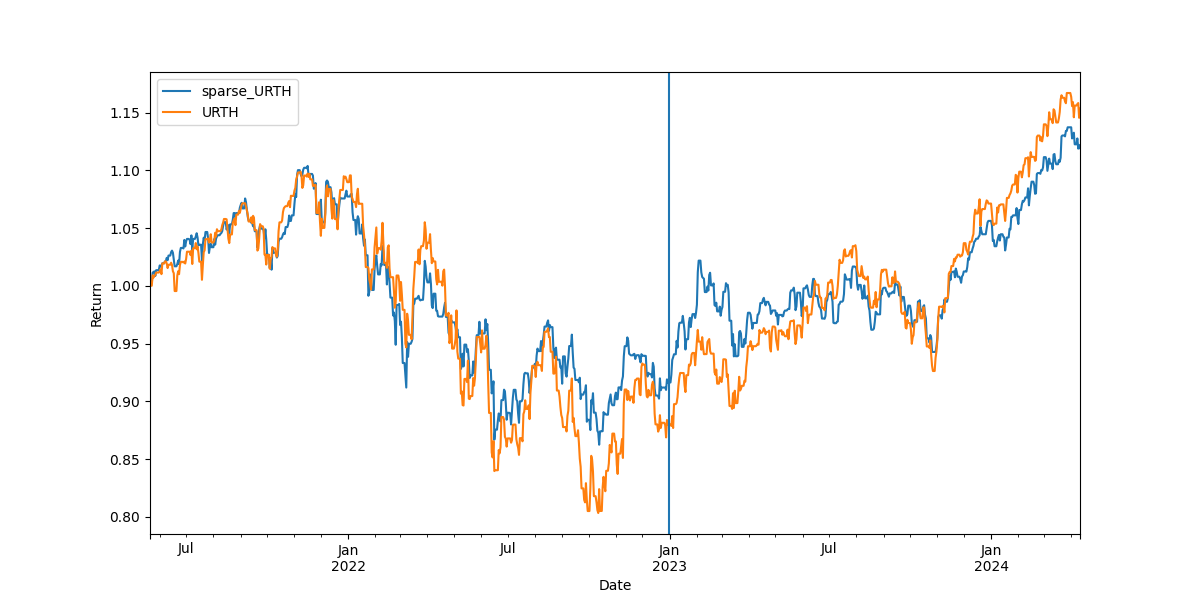
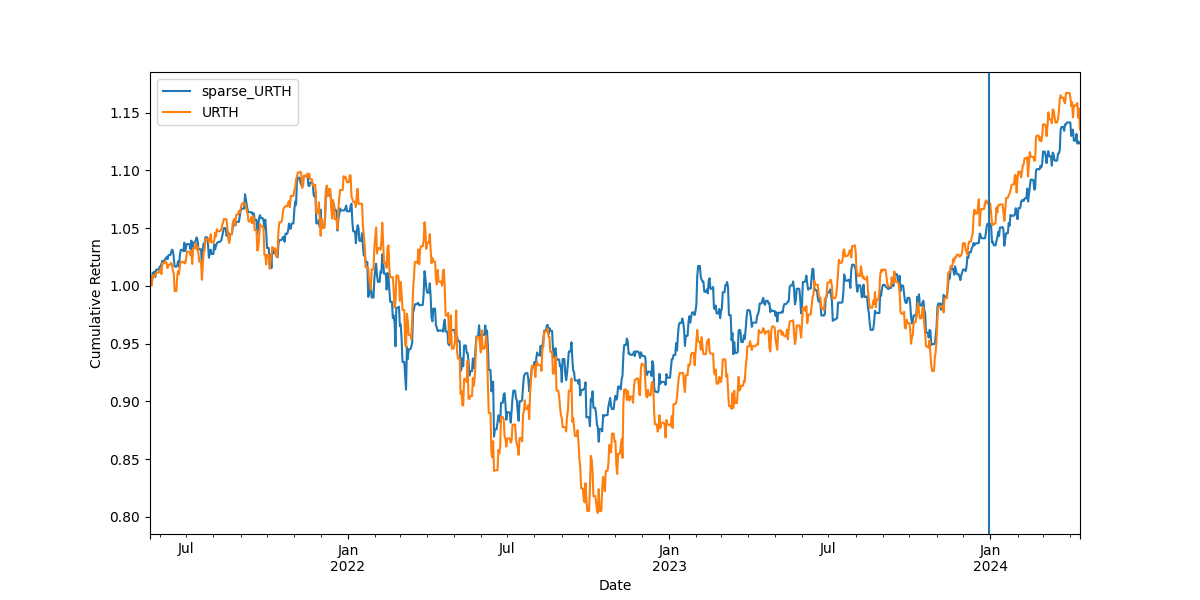
add max drawdown

diff --git a/src/funcs.py b/src/funcs.py
@@ -39,8 +39,9 @@ def get_t(
         pdr.get_data_yahoo(tickers, start, end, progress=True)["Close"]
     ).dropna()
     t_returns = t_prices.resample("D").ffill().pct_change().dropna(axis=0)
+    t_cum_returns = (1 + t_returns).cumprod()
 
-    return (t_names, t_prices, t_returns)
+    return (t_names, t_prices, t_returns, t_cum_returns)
 
 
 def get_t_fundamental(
@@ -97,36 +98,6 @@ def design_sparse(X_train, r_train, l=1e-7, u=0.5, measure="ete"):
     return spIndexTrack.spIndexTrack(X_train, r_train, l, u, measure)
 
 
-def backtest_portfolio(t_portfolio_returns, weights, portfolio_name, PLOT, ax=None):
-    """backtest portfolio returns with weights"""
-    portfolio_prices_normalized = dict()
-    portfolio_prices_normalized[portfolio_name] = (
-        (
-            1
-            + np.array(
-                t_portfolio_returns.to_numpy() * np.matrix(weights).reshape((-1, 1))
-            )
-        )
-        .flatten()
-        .cumprod()
-    )
-    portfolio_prices_normalized = pd.DataFrame(
-        portfolio_prices_normalized, index=t_portfolio_returns.index
-    )
-
-    if PLOT:
-        portfolio_prices_normalized.plot.line(
-            figsize=(12, 6), ylabel="Portfolio Cumulative Return", ax=ax
-        )
-
-    return portfolio_prices_normalized
-
-
-def plot_weights(weights, title, ax):
-    """plot weights as pie chart"""
-    weights.plot.pie(autopct="%1.1f%%", ax=ax, title=title)
-
-
 def build_sparse(
     ticker_index,
     tickers_portfolio,
@@ -166,13 +137,13 @@ def build_sparse(
 
             # get dataframe with cumulative returns for all the data
             sparse_portfolio = backtest_portfolio(
-                t_portfolio_returns=t_portfolio_returns,
+                t_returns=t_portfolio_returns,
                 weights=w_sparse,
                 portfolio_name="sparse_" + ticker_index[0],
                 PLOT=False,
             )
             sparse_index = backtest_portfolio(
-                t_portfolio_returns=t_index_returns,
+                t_returns=t_index_returns,
                 weights=np.array([1.0]),
                 portfolio_name=ticker_index[0],
                 PLOT=False,
@@ -211,6 +182,29 @@ def build_sparse(
     return crmse_df
 
 
+def plot_weights(weights, title, ax):
+    """plot weights as pie chart"""
+    weights.plot.pie(autopct="%1.1f%%", ax=ax, title=title)
+
+
+def backtest_portfolio(t_returns, weights, portfolio_name, PLOT, ax=None):
+    """backtest portfolio returns with fixed weights"""
+    portfolio_cum_return = dict()
+    portfolio_cum_return[portfolio_name] = (
+        (1 + np.array(t_returns.to_numpy() * np.matrix(weights).reshape((-1, 1))))
+        .flatten()
+        .cumprod()
+    )
+    portfolio_cum_return = pd.DataFrame(portfolio_cum_return, index=t_returns.index)
+
+    if PLOT:
+        portfolio_cum_return.plot.line(
+            figsize=(12, 6), ylabel="Cumulative Return", ax=ax
+        )
+
+    return portfolio_cum_return
+
+
 def get_stats(t_prices: pd.Series):
     stats = pd.DataFrame()
     num_years = (t_prices.index[-1] - t_prices.index[0]).total_seconds() / (
@@ -229,6 +223,7 @@ def get_stats(t_prices: pd.Series):
     stats["Annualized Volatility [%]"] = pd.Series(
         (t_prices.pct_change().std() * np.sqrt(252)) * 100
     )
+    stats["Max Drawdown [%]"] = (t_prices - t_prices.cummax()).min() * 100
     stats.index = [t_prices.name]
 
     return stats

diff --git a/sparse.py b/sparse.py
@@ -16,11 +16,11 @@ def sparse(ticker_index, num_tickers):
 
     # get all ticker data
     start_test = dt.datetime(year=2020, month=1, day=1)
-    _, _, t_all_returns = get_t(tickers=tickers_portfolio, start=start_test)
-    _, _, t_index_returns = get_t(tickers=ticker_index, start=start_test)
+    (_, _, t_all_returns, _) = get_t(tickers=tickers_portfolio, start=start_test)
+    (_, _, t_index_returns, _) = get_t(tickers=ticker_index, start=start_test)
 
     # train only for some data
-    end_train = dt.datetime(year=2022, month=12, day=31)
+    end_train = dt.datetime(year=2023, month=12, day=31)
 
     # build sparse portfolio
     crmse_df = build_sparse(
@@ -86,14 +86,14 @@ def sparse(ticker_index, num_tickers):
         # plot sparse index portfolio vs index returns
         _, ax = plt.subplots(figsize=(12, 6))
         _ = backtest_portfolio(
-            t_portfolio_returns=returns_results,
+            t_returns=returns_results,
             weights=result_weights,
             portfolio_name="sparse_" + ticker_index[0],
             PLOT=True,
             ax=ax,
         )
         _ = backtest_portfolio(
-            t_portfolio_returns=t_index_returns,
+            t_returns=t_index_returns,
             weights=[1.0],
             portfolio_name=ticker_index[0],
             PLOT=True,
@@ -113,11 +113,15 @@ def sparse(ticker_index, num_tickers):
 
 
 if __name__ == "__main__":
-    ticker_index = ["^RUT"]
-    num_tickers = 3
-    sparse(ticker_index=ticker_index, num_tickers=num_tickers)
+    # ticker_index = ["^RUT"]
+    # num_tickers = 3
+    # sparse(ticker_index=ticker_index, num_tickers=num_tickers)
 
-    ticker_index = ["^SPXEW"]
+    # ticker_index = ["^SPXEW"]
+    # num_tickers = 3
+    # sparse(ticker_index=ticker_index, num_tickers=num_tickers)
+
+    ticker_index = ["URTH"]
     num_tickers = 3
     sparse(ticker_index=ticker_index, num_tickers=num_tickers)
 
@@ -129,21 +133,17 @@ if __name__ == "__main__":
     # num_tickers = 3
     # sparse(ticker_index=ticker_index, num_tickers=num_tickers)
 
-    ticker_index = ["URTH"]
-    num_tickers = 3
-    sparse(ticker_index=ticker_index, num_tickers=num_tickers)
-
-    ticker_index = ["^RUA"]
-    num_tickers = 3
-    sparse(ticker_index=ticker_index, num_tickers=num_tickers)
+    # ticker_index = ["^RUA"]
+    # num_tickers = 3
+    # sparse(ticker_index=ticker_index, num_tickers=num_tickers)
 
     # ticker_index = ["^SP1500"]
     # num_tickers = 3
     # sparse(ticker_index=ticker_index, num_tickers=num_tickers)
 
-    ticker_index = ["^RUI"]
-    num_tickers = 3
-    sparse(ticker_index=ticker_index, num_tickers=num_tickers)
+    # ticker_index = ["^RUI"]
+    # num_tickers = 3
+    # sparse(ticker_index=ticker_index, num_tickers=num_tickers)
 
     # ticker_index = ["IWSZ.L"]
     # num_tickers = 3

diff --git a/backtest.py b/backtest.py
@@ -13,14 +13,15 @@ if "__ipython__":
 if __name__ == "__main__":
     # allocate weights
     portfolio_name = "Portfolio"
-    tickers = ["VUSA.L", "XRSG.L", "SGLN.L", "CSH2.L"]
+    tickers = ["VUAG.L", "XRSG.L", "SGLN.L", "CSH2.L"]
+    # tickers = ["VOO", "XRSG.L", "SGLN.L", "CSH2.L"]
     weights = pd.Series([0.3, 0.15, 0.3, 0.25], index=tickers)
     sort_indices = np.argsort(tickers)
     weights = weights[sort_indices]
 
     # get ticker data
-    t_names, t_prices, t_returns = get_t(
-        tickers=tickers, start=dt.datetime.now() - dt.timedelta(days=365 * 15)
+    (t_names, t_prices, t_returns, t_cum_returns) = get_t(
+        tickers=tickers, start=dt.datetime.now() - dt.timedelta(days=365 * 10)
     )
 
     # visualize weights
@@ -31,7 +32,7 @@ if __name__ == "__main__":
     _, ax = plt.subplots(1, 1, figsize=(12, 9))
     for ticker in t_returns.columns:
         _ = backtest_portfolio(
-            t_portfolio_returns=t_returns.loc[:, ticker].to_frame(),
+            t_returns=t_returns.loc[:, ticker].to_frame(),
             weights=[1.0],
             portfolio_name=ticker,
             PLOT=True,
@@ -39,8 +40,8 @@ if __name__ == "__main__":
         )
 
     # backtest portfolio
-    portfolio_cumulative_return = backtest_portfolio(
-        t_portfolio_returns=t_returns,
+    portfolio_cum_return = backtest_portfolio(
+        t_returns=t_returns,
         weights=weights,
         portfolio_name=portfolio_name,
         PLOT=True,
@@ -50,9 +51,10 @@ if __name__ == "__main__":
     # tickers and portfolio stats
     stats = pd.DataFrame()
     for ticker in tickers:
-        stats = pd.concat((stats, get_stats(t_prices=t_prices.loc[:, ticker])), axis=0)
+        stats = pd.concat(
+            (stats, get_stats(t_prices=t_cum_returns.loc[:, ticker])), axis=0
+        )
     stats = pd.concat(
-        (stats, get_stats(t_prices=portfolio_cumulative_return.iloc[:, 0])), axis=0
+        (stats, get_stats(t_prices=portfolio_cum_return.iloc[:, 0])), axis=0
     )
     print(stats.to_string())
-

diff --git a/risk_parity.py b/risk_parity.py
@@ -8,7 +8,7 @@ from src.funcs import get_t, fit_mvt, construct_rbp, backtest_portfolio, plot_we
 
 def risk_parity(tickers):
     # get ticker data
-    t_names, t_prices, t_returns = get_t(
+    (t_names, t_prices, t_returns, t_cum_returns) = get_t(
         tickers=tickers, start=dt.datetime.now() - dt.timedelta(days=365 * 10)
     )
 
@@ -47,21 +47,21 @@ def risk_parity(tickers):
     # backtest portofolio performance
     _, ax = plt.subplots(figsize=(12, 6))
     _ = backtest_portfolio(
-        t_portfolio_returns=t_returns,
+        t_returns=t_returns,
         weights=weights_parity,
         portfolio_name="Parity Portfolio",
         PLOT=True,
         ax=ax,
     )
     _ = backtest_portfolio(
-        t_portfolio_returns=t_returns,
+        t_returns=t_returns,
         weights=weights_budget,
         portfolio_name="Budget Portfolio",
         PLOT=True,
         ax=ax,
     )
     _ = backtest_portfolio(
-        t_portfolio_returns=t_returns,
+        t_returns=t_returns,
         weights=weights_equal,
         portfolio_name="Equal Weight Portfolio",
         PLOT=True,
@@ -71,7 +71,7 @@ def risk_parity(tickers):
     # backtest asset performance
     for asset in t_returns.columns:
         _ = backtest_portfolio(
-            t_portfolio_returns=t_returns.loc[:, asset].to_frame(),
+            t_returns=t_returns.loc[:, asset].to_frame(),
             weights=[1.0],
             portfolio_name=asset,
             PLOT=True,
@@ -85,5 +85,5 @@ def risk_parity(tickers):
 
 
 if __name__ == "__main__":
-    tickers = ["VUSA,L", "CSH2.L", "UC90.L"]
+    tickers = ["VUSA.L", "CSH2.L", "UC90.L"]
     risk_parity(tickers=tickers)
